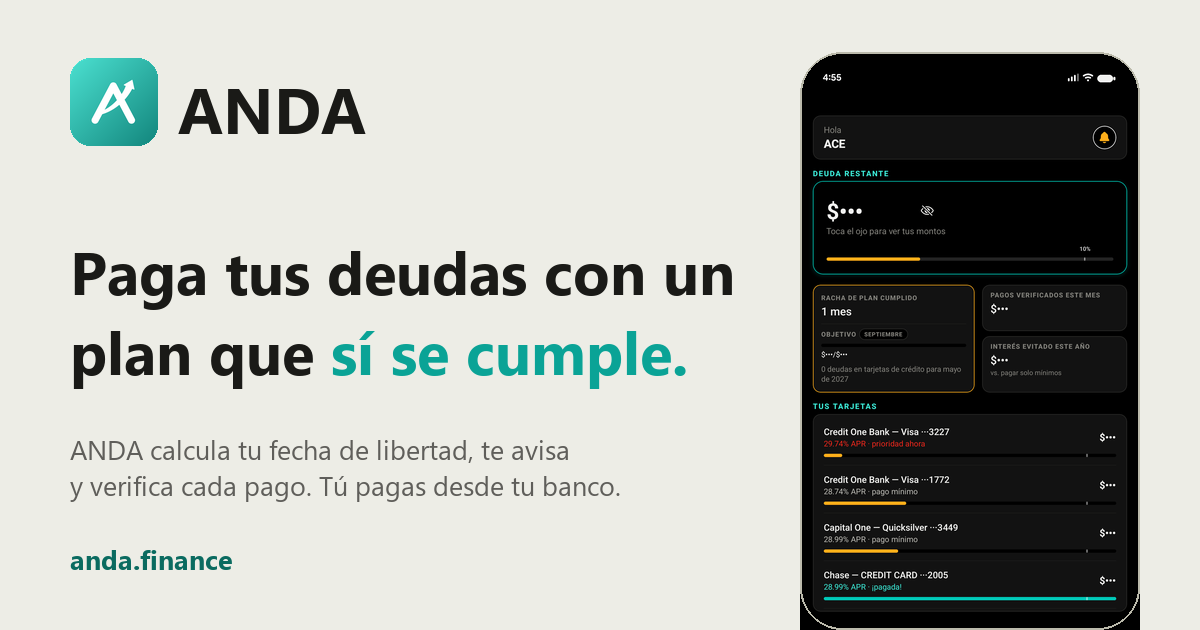
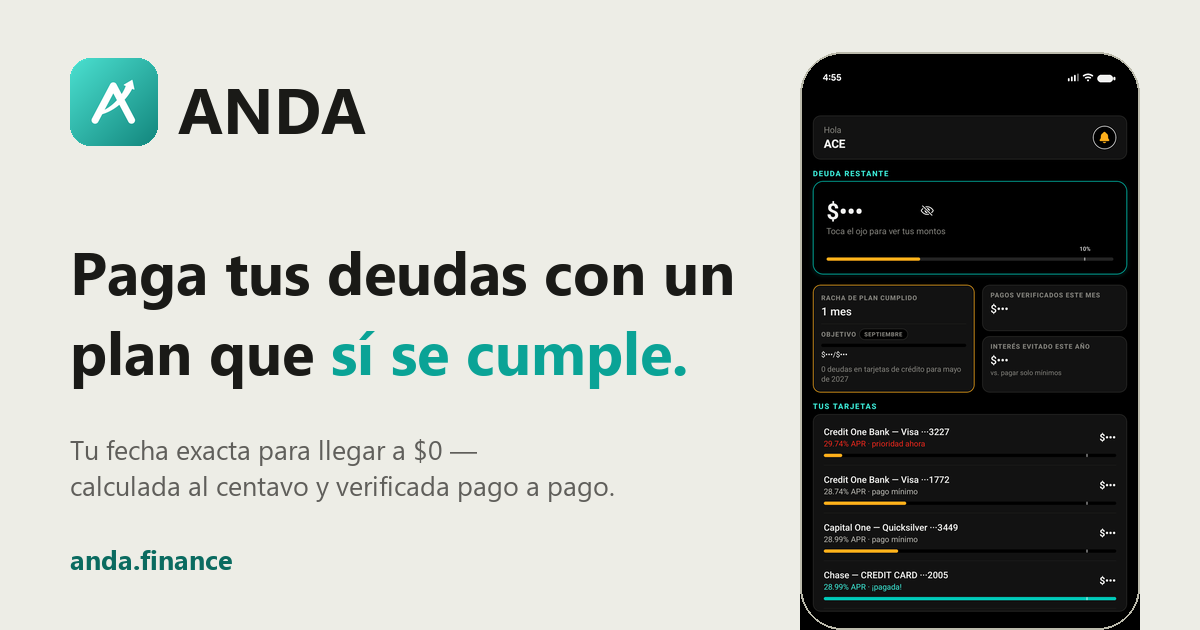
La frase de la tarjeta de compartir: tu fecha exacta para llegar a $0, calculada al centavo y verificada pago a pago

Changed region(s): [[0.0617, 0.6937, 0.5242, 0.8143]]

diff --git a/index.html b/index.html
@@ -4,9 +4,9 @@
 <meta charset="utf-8">
 <meta name="viewport" content="width=device-width, initial-scale=1">
 <title>ANDA</title>
-<meta name="description" content="ANDA — paga tus deudas de tarjeta con un plan mensual que sí se cumple. ANDA calcula, te avisa y verifica cada pago; tú pagas desde tu banco.">
+<meta name="description" content="Tu fecha exacta para llegar a $0 de deuda en tarjetas — calculada al centavo y verificada pago a pago. Tú pagas desde tu banco.">
 <meta property="og:title" content="ANDA — paga tus deudas">
-<meta property="og:description" content="El plan mensual que sí se cumple: ANDA calcula, avisa y verifica. Tú pagas desde tu banco.">
+<meta property="og:description" content="Tu fecha exacta para llegar a $0 — calculada al centavo y verificada pago a pago. Tú pagas desde tu banco.">
 <meta property="og:url" content="https://anda.finance/">
 <meta property="og:image" content="https://anda.finance/img/og.png">
 <meta name="twitter:card" content="summary_large_image">
